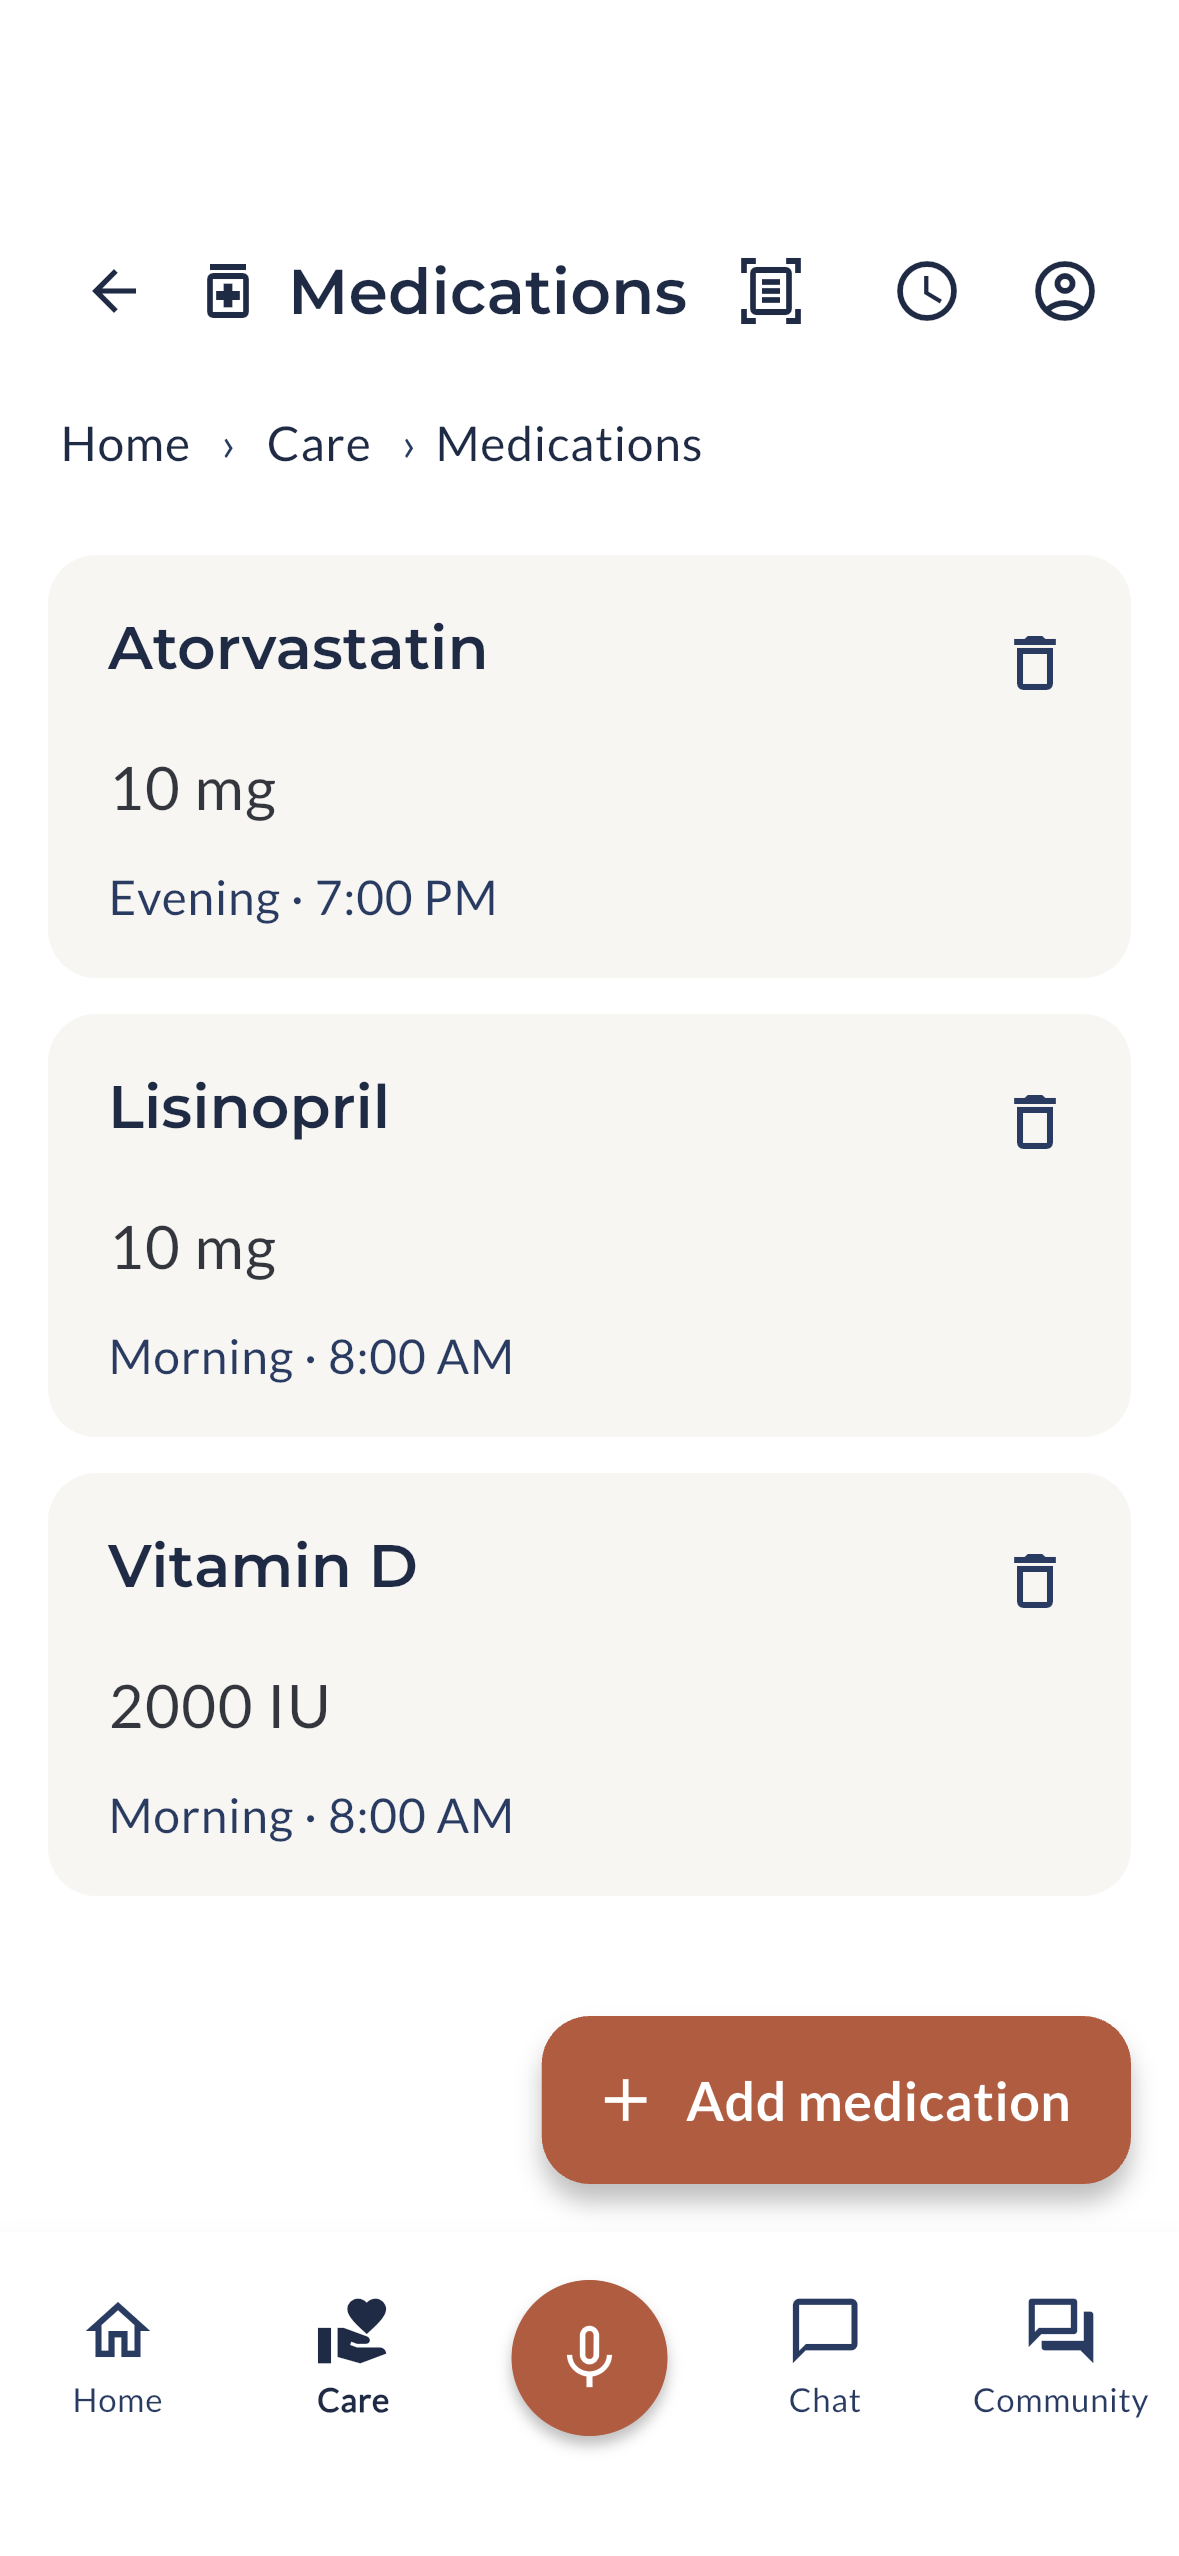
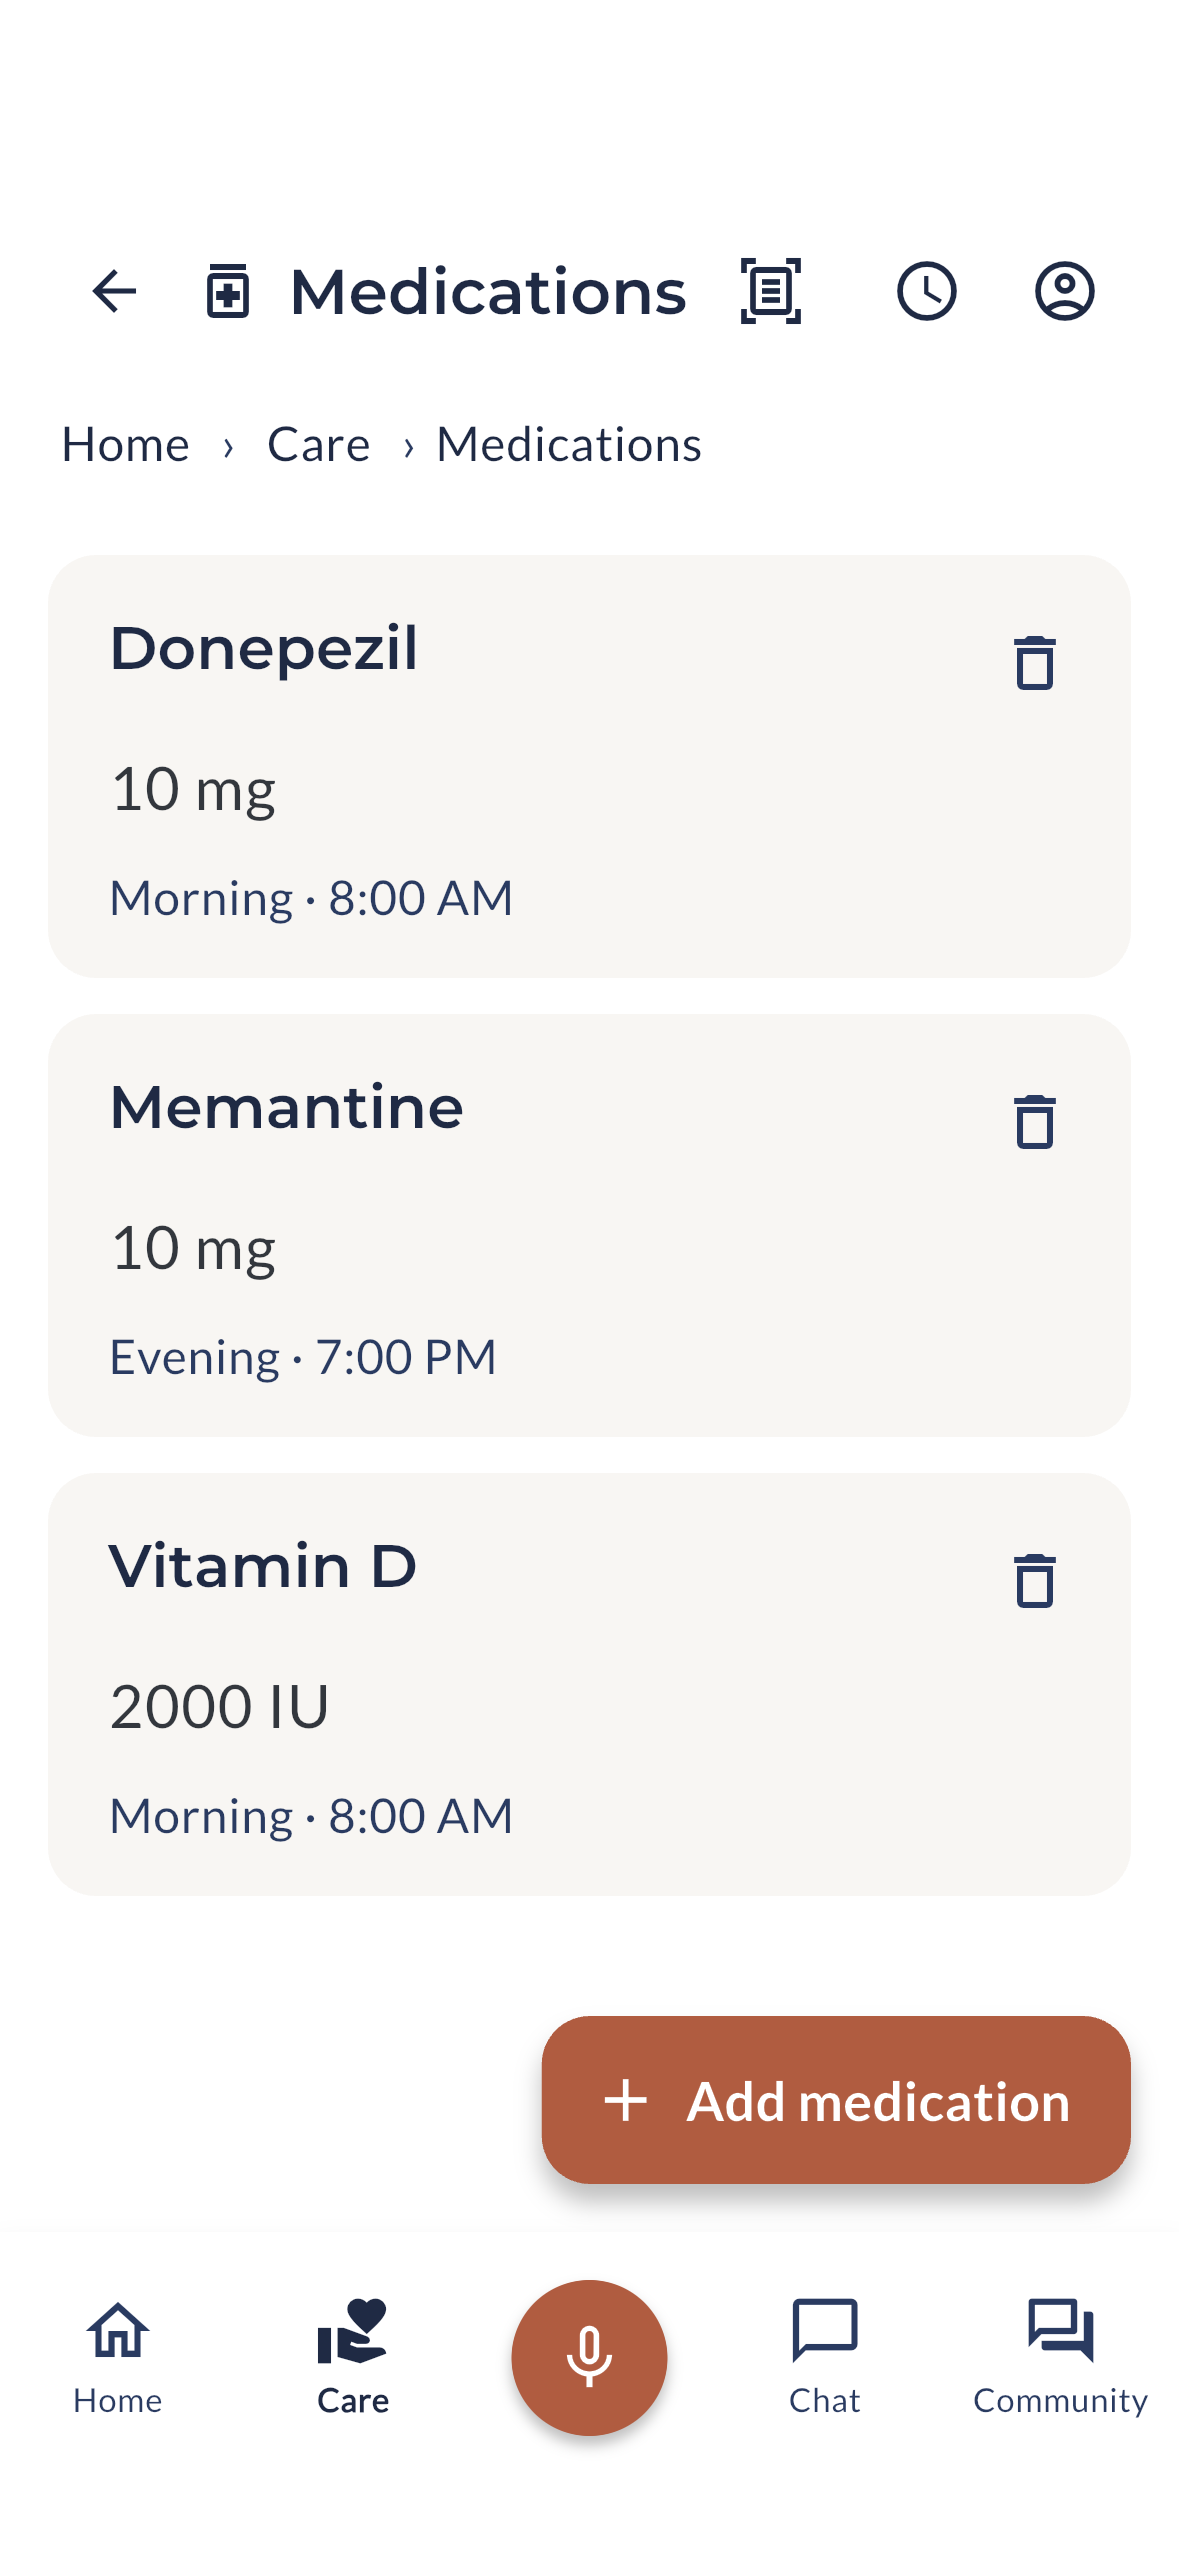
docs: ground the Holdclose showcase in dementia care
Per the ACL dementia-focus (meritorious) angle, re-ground the demo persona
in the screenshot harness: Mary Henderson re-diagnosed to Alzheimer's with
the hallmark meds (Donepezil + Memantine), so Home, the Emergency Card, and
the coach threads (sundowning, etc.) all read as dementia caregiving.
Regenerated the six simulator screenshots. App remains general-purpose;
only the showcase persona leans dementia.

Claude-Session: https://claude.ai/code/session_011JvkiVAbdcSmEkRQ9X4V95

diff --git a/integration_test/screenshots_test.dart b/integration_test/screenshots_test.dart
@@ -1,6 +1,8 @@
 import 'dart:io';
 
 import 'package:holdclose/app.dart';
+import 'package:holdclose/models/patient.dart' show CrisisMedication;
+import 'package:holdclose/seed/mary_henderson.dart' show maryHenderson;
 import 'package:holdclose/db/database.dart';
 import 'package:holdclose/models/chat.dart';
 import 'package:holdclose/models/forum.dart';
@@ -100,7 +102,21 @@ void main() {
       // caregiver authors the first entry on camera.
       final InMemoryStorageProvider storage = InMemoryStorageProvider();
       addTearDown(storage.dispose);
-      await SeedRepository(storage: storage).ensurePatient();
+      // Dementia-grounded showcase persona (Track-1 dementia focus): same
+      // Mary Henderson, re-diagnosed to Alzheimer's with the hallmark meds so
+      // Home, the Emergency Card, and the coach all read as dementia care.
+      await storage.upsertPatient(maryHenderson().copyWith(
+        diagnosis:
+            "Alzheimer's disease (dementia), diagnosed 2023; high blood pressure",
+        medications: const <CrisisMedication>[
+          CrisisMedication(
+              name: 'Donepezil', dose: '10 mg', schedule: 'every morning'),
+          CrisisMedication(
+              name: 'Memantine', dose: '10 mg', schedule: 'twice daily'),
+          CrisisMedication(
+              name: 'Lisinopril', dose: '10 mg', schedule: 'every morning'),
+        ],
+      ));
 
       final HoldcloseDatabase db =
           HoldcloseDatabase(NativeDatabase.memory());
@@ -112,13 +128,13 @@ void main() {
           MedicationRepository(db, clock: _fixedNow);
       await medRepo.upsertMedication(const Medication(
         id: 'med-don',
-        name: 'Lisinopril',
+        name: 'Donepezil',
         dosage: '10 mg',
         route: MedicationRoute.oral,
       ));
       await medRepo.upsertMedication(const Medication(
         id: 'med-mem',
-        name: 'Atorvastatin',
+        name: 'Memantine',
         dosage: '10 mg',
         route: MedicationRoute.oral,
       ));
